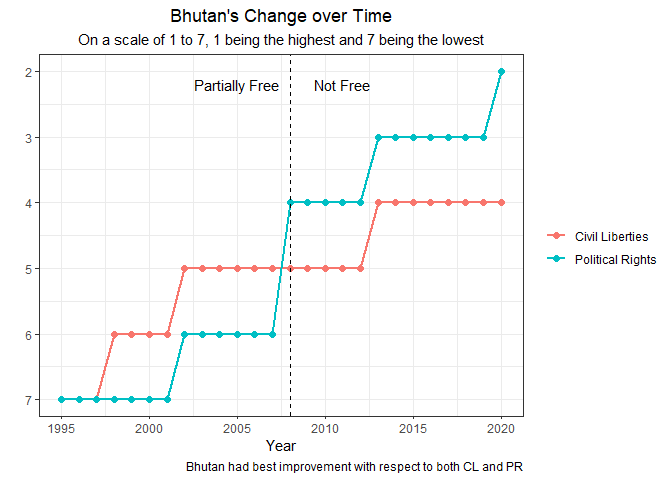
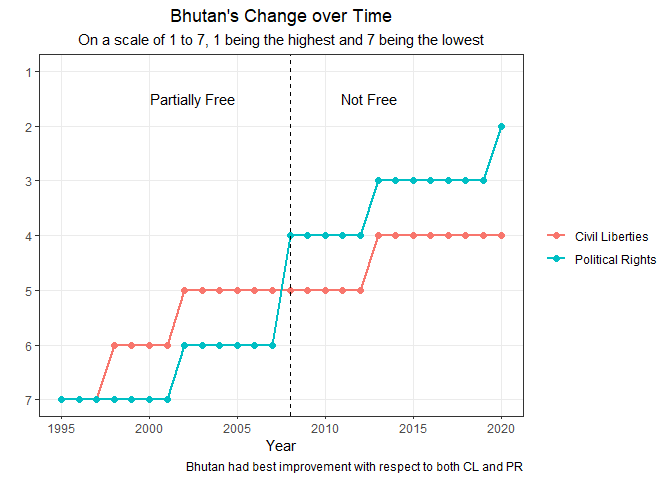
update of last plot (Bhutan)

diff --git a/Freedom.md b/Freedom.md
@@ -389,12 +389,14 @@ freedom %>%
   pivot_longer(c("cl","pr")) %>%
   mutate(name = ifelse(name == "cl", "Civil Liberties", "Political Rights")) %>%
   ggplot(aes(year, value, color = name)) + geom_line(size = 1) +
-  geom_point(size = 2) + scale_y_reverse() + geom_vline(xintercept = 2008, linetype = "dashed") +
-  annotate(geom = "text", label = c("Partially Free", "Not Free"), x = c(2005, 2011), y = 2.2) +
+  geom_point(size = 2) + scale_y_reverse(breaks = seq(1,7)) + geom_vline(xintercept = 2008, linetype = "dashed") +
+  annotate(geom = "text", label = c("Partially Free", "Not Free"), x = c(2002.5, 2012.5), y = 1.5) +
   labs(y = "", x = "Year", title = "Bhutan's Change over Time", color = "",
        subtitle = sub, caption = "Bhutan had best improvement with respect to both CL and PR") +
   theme(plot.title = element_text(hjust = 0.5),
-        plot.subtitle = element_text(hjust = 0.5))
+        plot.subtitle = element_text(hjust = 0.5),
+        panel.grid.minor = element_blank()) +
+  expand_limits(y = 1)
 ```
 
 ![](Freedom_files/figure-gfm/unnamed-chunk-15-1.png)<!-- -->
